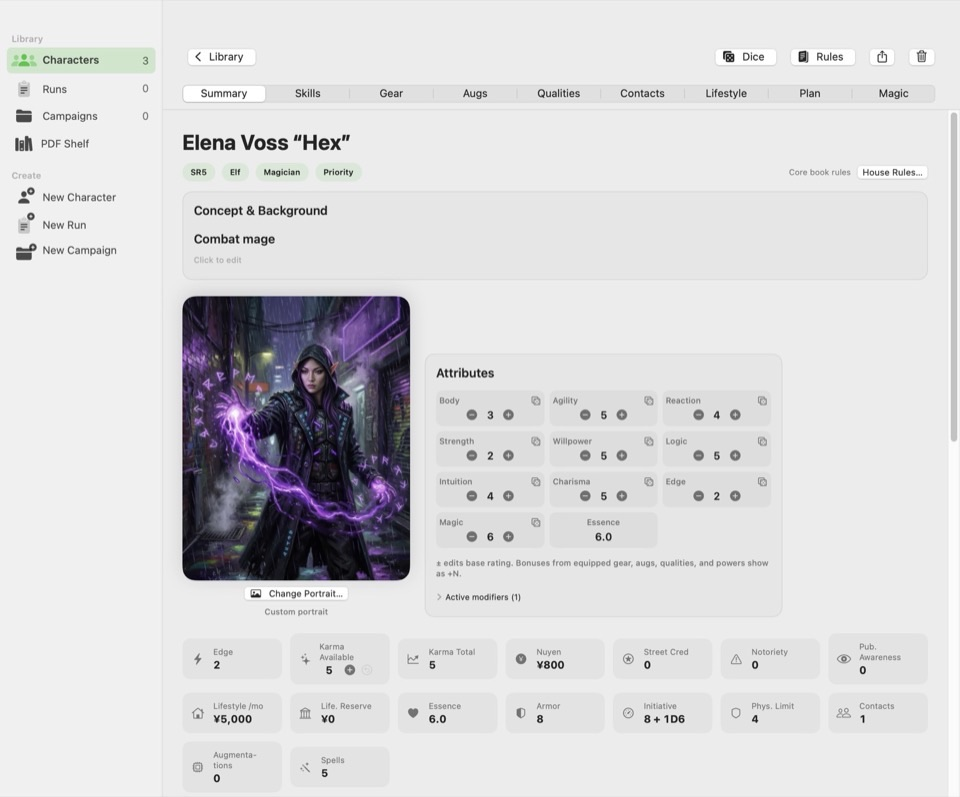
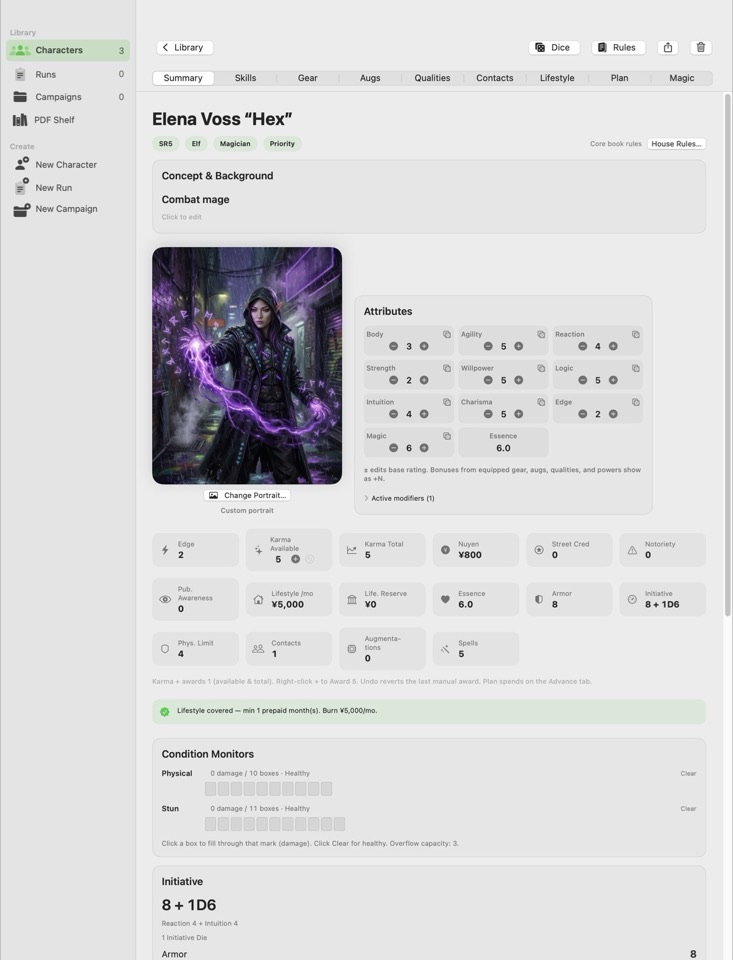
Taller play-sheet still for the README feature table.
Capture the Summary window at max screen height (1080×~1415 effective)
so lifestyle, condition, and initiative show below the resource chips.
Adds SHADOWDECK_CAPTURE_SHEET_ONLY for quick recaptures.

diff --git a/ShadowDeck/App/MarketingScreenshotExporter.swift b/ShadowDeck/App/MarketingScreenshotExporter.swift
@@ -70,9 +70,12 @@ enum MarketingScreenshotExporter {
     private static let libraryReturnSettleNanoseconds: UInt64 = 1_400_000_000
     /// Long-edge cap for GIF frames (aspect preserved; matches window proportions).
     private static let gifMaxLongEdge: CGFloat = 800
-    /// Content size for the play-sheet still (taller than default so Summary content
-    /// fills the README feature-table cell next to multi-line copy).
-    private static let characterSheetCaptureContentSize = NSSize(width: 1180, height: 980)
+    /// Content size for the play-sheet still. Much taller than the default deck so the
+    /// Summary (portrait → vitals → lifestyle → condition → skills) is visible without
+    /// a short landscape crop, and so the README feature-table cell next to multi-line
+    /// copy is roughly filled when the still is shown at ~420pt width.
+    /// Aspect ≈ 1:1.75 → after long-edge normalize to 1800px, display height ≈ 2× the old 980-tall still.
+    private static let characterSheetCaptureContentSize = NSSize(width: 1080, height: 1900)
     private struct TimedFrame {
         let image: NSImage
         let delaySeconds: Double
@@ -100,26 +103,40 @@ enum MarketingScreenshotExporter {
             fputs("Marketing capture: forced darkAqua appearance\n", stderr)
         }
 
+        // SHADOWDECK_CAPTURE_SHEET_ONLY=1 — rebuild just the tall play-sheet still (no GIFs).
+        let sheetOnly = ProcessInfo.processInfo.environment["SHADOWDECK_CAPTURE_SHEET_ONLY"] == "1"
+
         // —— Stills (no separate Run Library still — covered by mission GIF) ——
         try? await Task.sleep(nanoseconds: 900_000_000)
-        await captureStill(named: "01-splash", to: dir)
+        if !sheetOnly {
+            await captureStill(named: "01-splash", to: dir)
 
-        post(.library)
-        try? await Task.sleep(nanoseconds: 1_100_000_000)
-        await captureStill(named: "02-library", to: dir)
+            post(.library)
+            try? await Task.sleep(nanoseconds: 1_100_000_000)
+            await captureStill(named: "02-library", to: dir)
 
-        post(.generationRole)
-        try? await Task.sleep(nanoseconds: 1_200_000_000)
-        await captureStill(named: "03-generation-role", to: dir)
+            post(.generationRole)
+            try? await Task.sleep(nanoseconds: 1_200_000_000)
+            await captureStill(named: "03-generation-role", to: dir)
+        }
 
-        // Taller main window so the Summary play sheet fills README table height
-        // (feature-section layout grows with bullet text; short landscape crops leave whitespace).
-        resizePrimaryMainWindow(contentSize: characterSheetCaptureContentSize)
+        // Open Summary first (splash dismiss resets the deck to default size), then grow
+        // the window tall so the play sheet fills README table height.
         post(.characterSheet)
-        try? await Task.sleep(nanoseconds: 1_600_000_000)
+        try? await Task.sleep(nanoseconds: 900_000_000)
+        resizePrimaryMainWindow(contentSize: characterSheetCaptureContentSize)
+        try? await Task.sleep(nanoseconds: 1_400_000_000)
         await captureStill(named: "04-character-sheet", to: dir)
         // Restore default deck size for subsequent stills / GIFs.
         resizePrimaryMainWindow(contentSize: LaunchWindowGeometry.mainContentSize)
+
+        if sheetOnly {
+            post(.finished)
+            fputs("Marketing screenshots complete (sheet only).\n", stderr)
+            try? await Task.sleep(nanoseconds: 300_000_000)
+            NSApp.terminate(nil)
+            return
+        }
 
         post(.diceRoller)
         // Skills tab + open roller + perform roll + paint Edge chrome.
